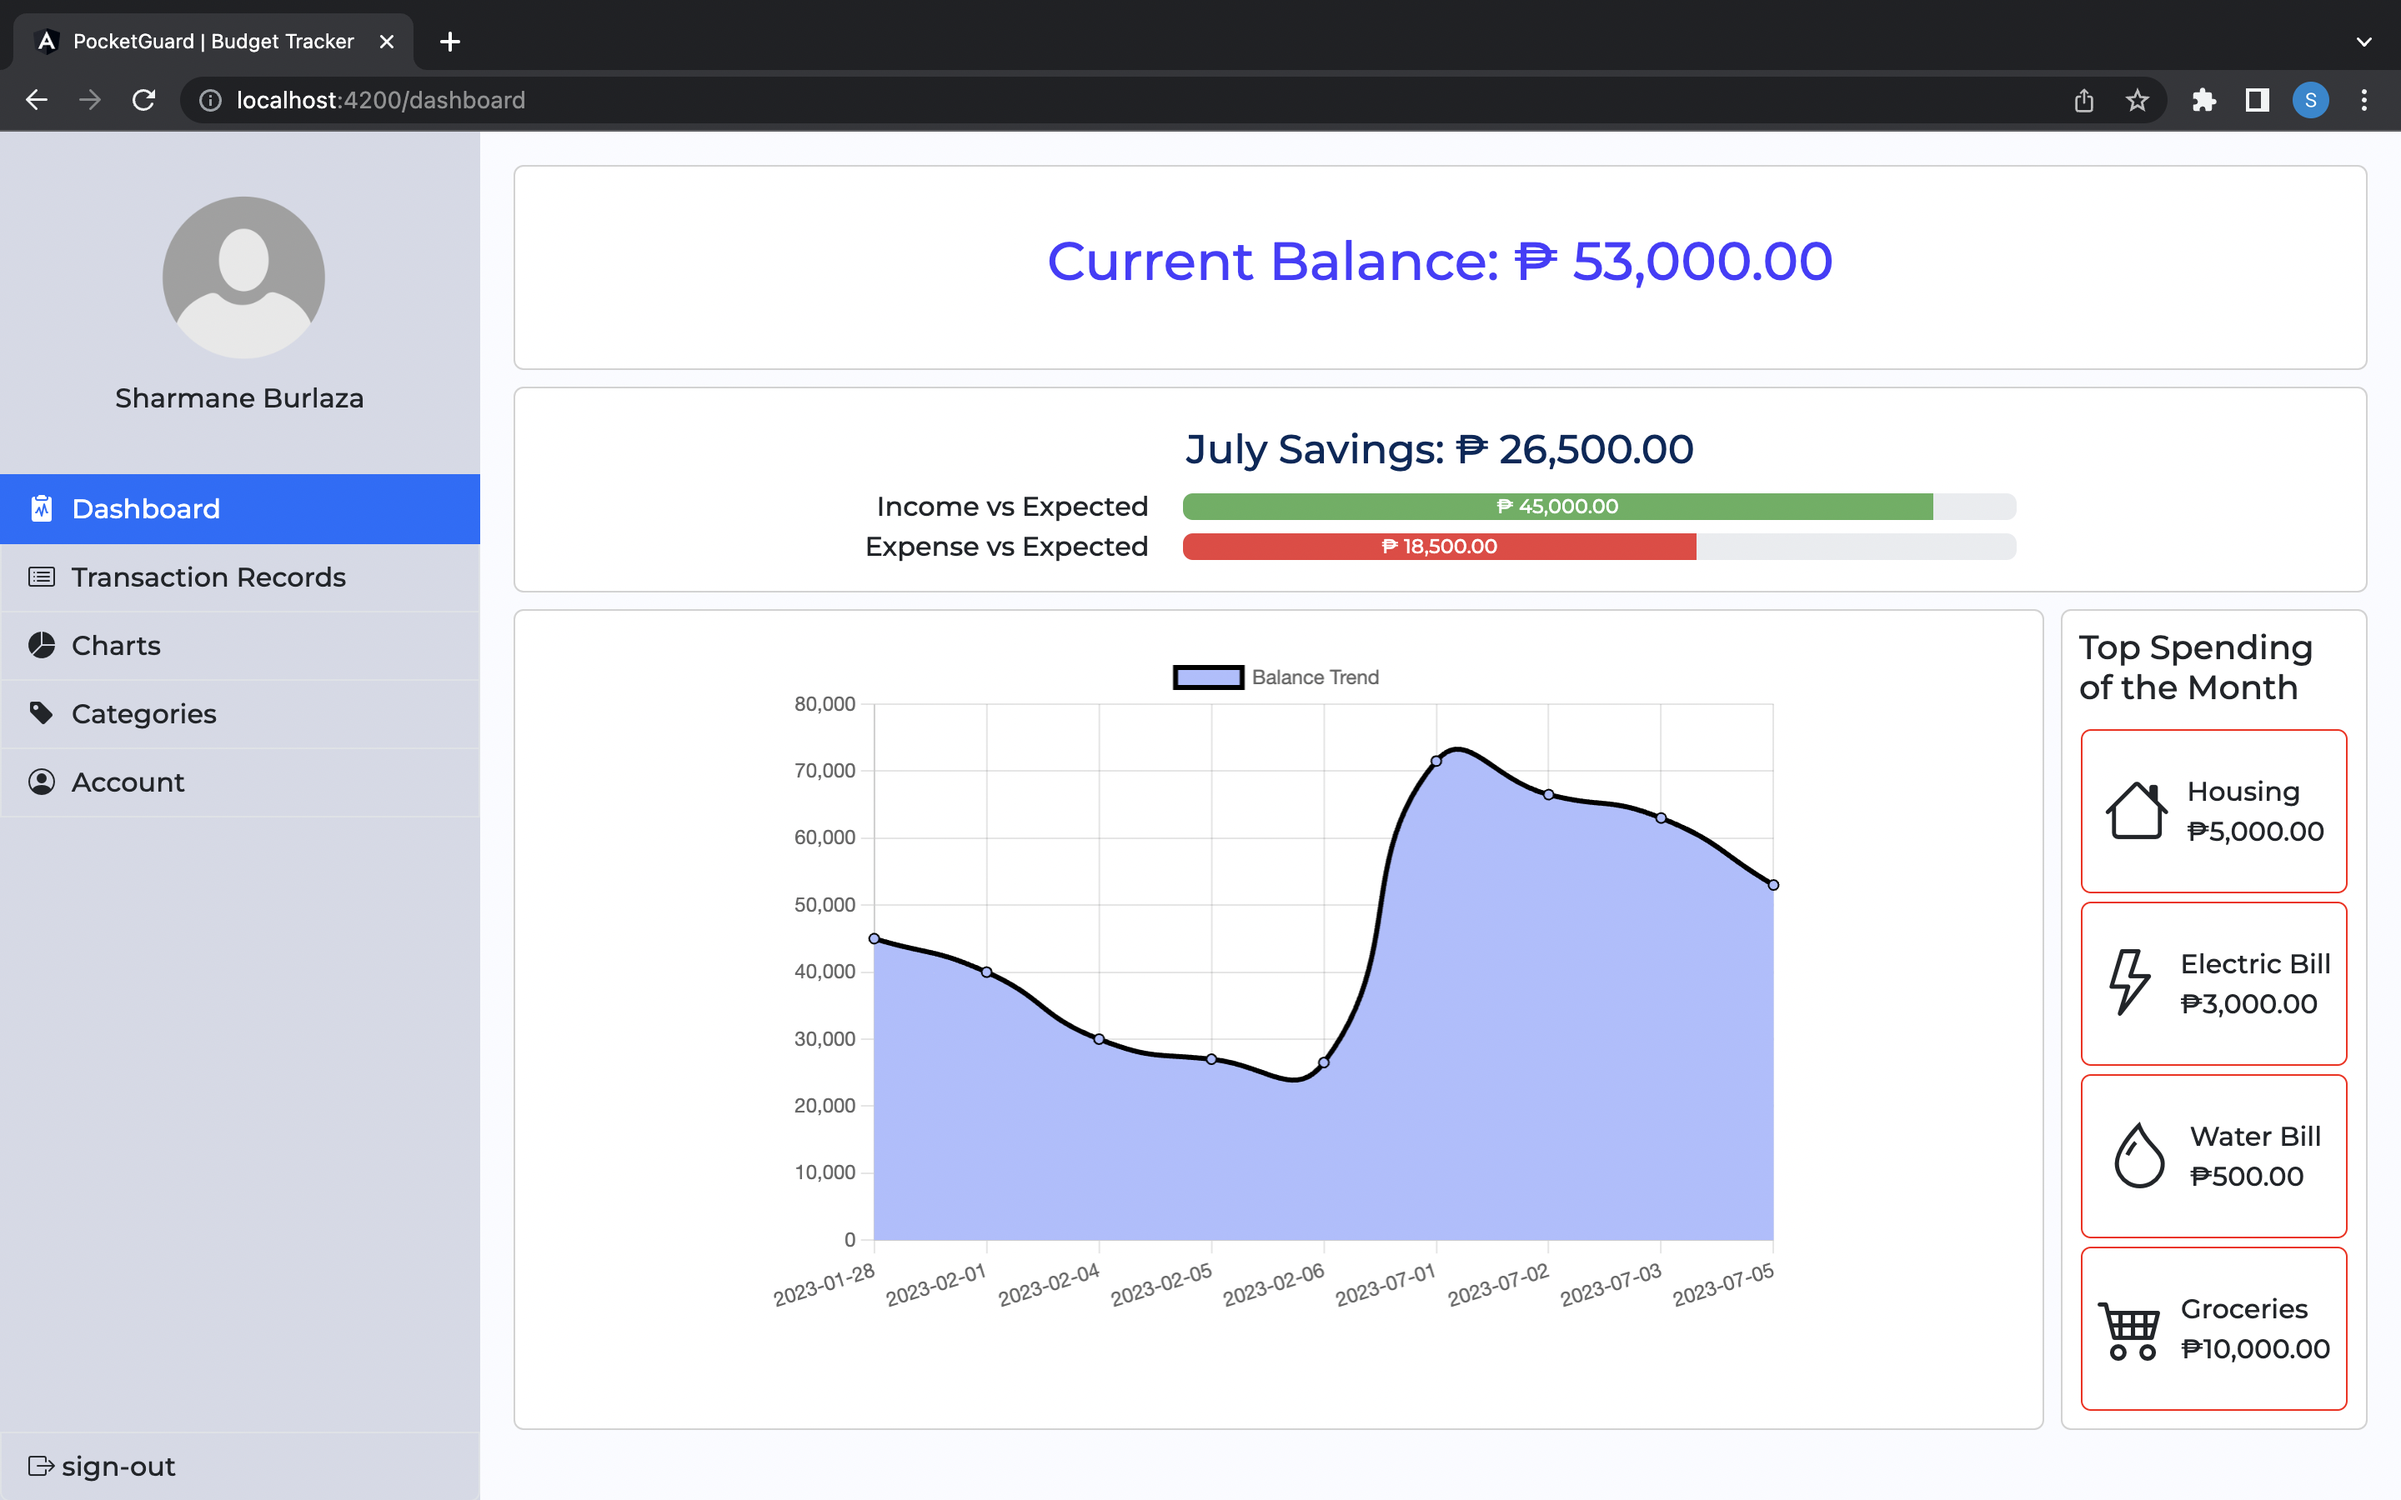
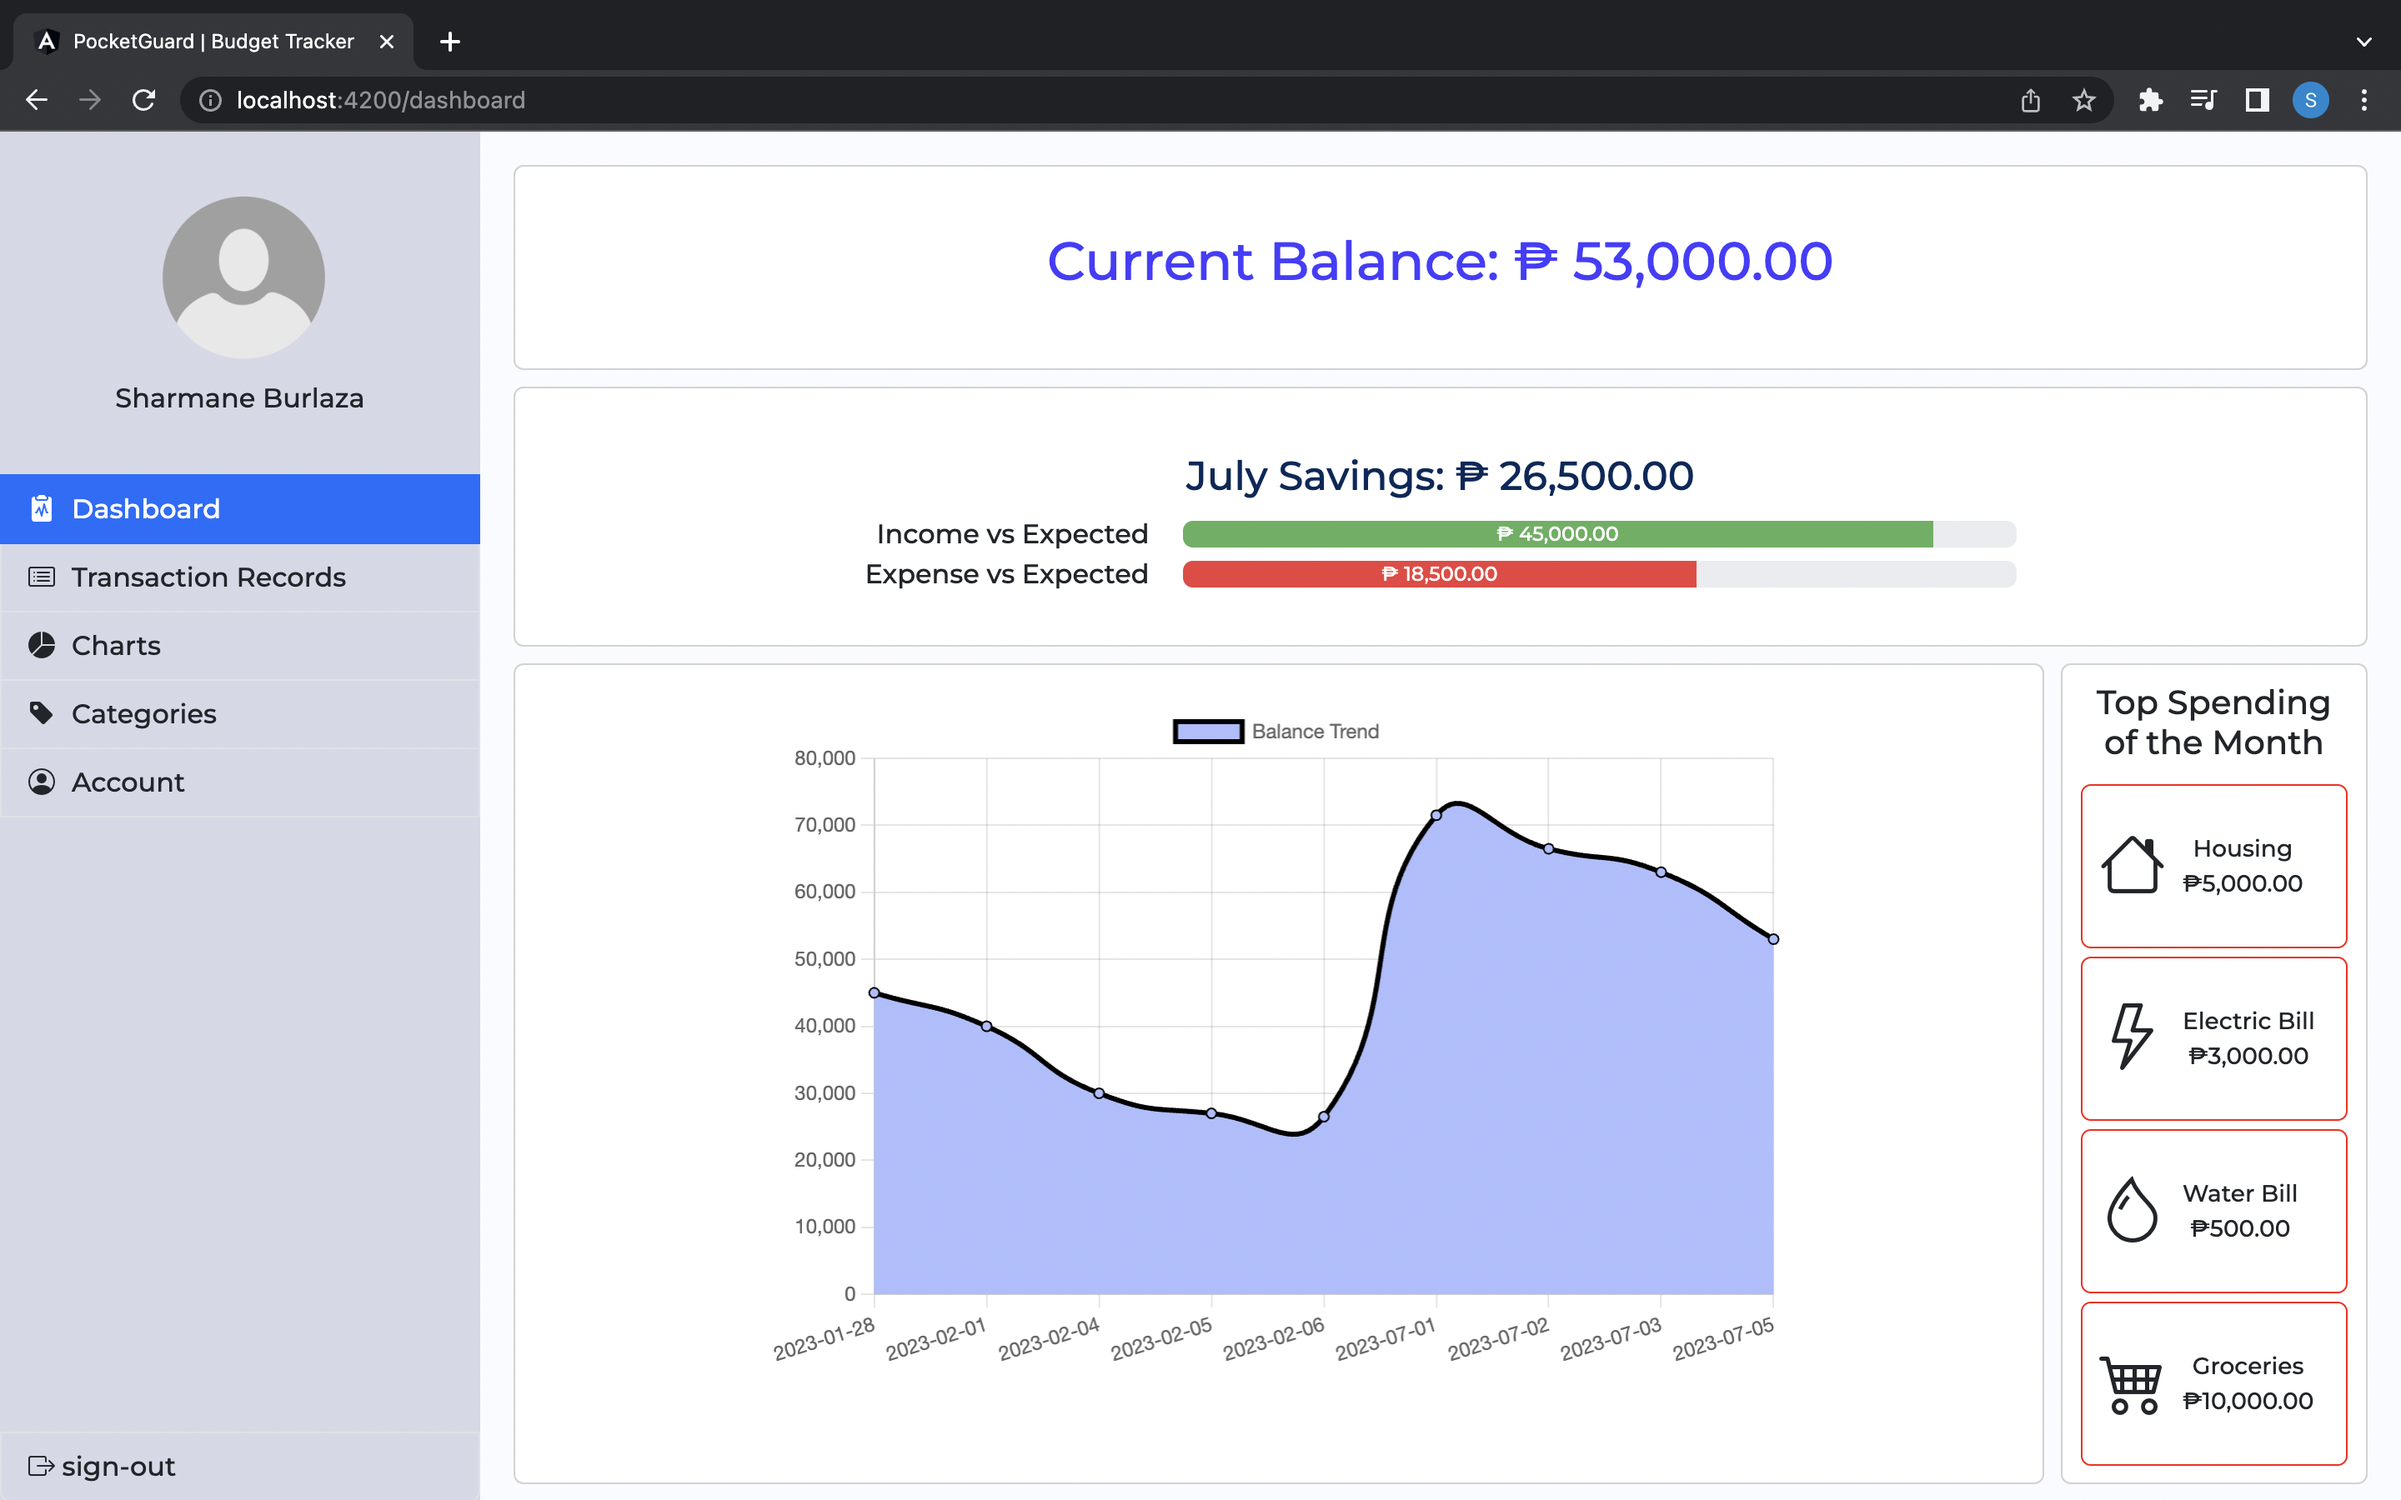
Update dashboard screenshot

diff --git a/src/app/dashboard/dashboard.component.scss b/src/app/dashboard/dashboard.component.scss
@@ -22,13 +22,11 @@
             display: flex;
             justify-content: center;
             align-items: center;
-            height: 15vh;
-
+            height: 19vh;
 
             h4 {
                 align-self: center;
                 color: $marine-blue;
-                // margin-bottom: 100px;
             }
 
             .bar-income, .bar-expense {
@@ -57,53 +55,49 @@
                 }
             }
         }
-    }
 
-    .sub-info {
-        margin-top: 10px;
-        display: flex;
-        height: 60vh;
-
-        .trend-container {
-            margin-right: 10px;
-            width: 65vw
-        }
-
-        .card.spending-container {
+        .sub-info {
+            margin-top: 10px;
             display: flex;
-            justify-content: center;
-            align-items: center;
-            padding: 10px;
             height: 60vh;
-            width: 13vw;
-
-            h5 {
-                // align-self: center !important;
+    
+            .trend-container {
+                margin-right: 10px;
+                width: 65vw
             }
-
-            .spending-card {
+    
+            .card.spending-container {
                 display: flex;
-                flex-direction: row;
                 justify-content: center;
                 align-items: center;
-                width: 160px;
-                height: 12vh;
-                margin-top: 5px;
-                border-color: red;
-
-                i {
-                    font-size: 40px;
-                    margin-right: 10px;
-                }
-
-                .info {
-                    p {
-                        margin: 0;
+                text-align: center;
+                padding: 10px;
+                height: 60vh;
+                width: 13vw;
+    
+                .spending-card {
+                    display: flex;
+                    flex-direction: row;
+                    align-items: center;
+                    width: 160px;
+                    height: 12vh;
+                    margin-top: 5px;
+                    border-color: red;
+    
+                    i {
+                        font-size: 40px;
+                        margin: 0 10px;
+                    }
+    
+                    .info {
+                        p {
+                            margin: 0;
+                            font-size: 14px;
+                        }
                     }
                 }
             }
         }
-
     }
 }
 
